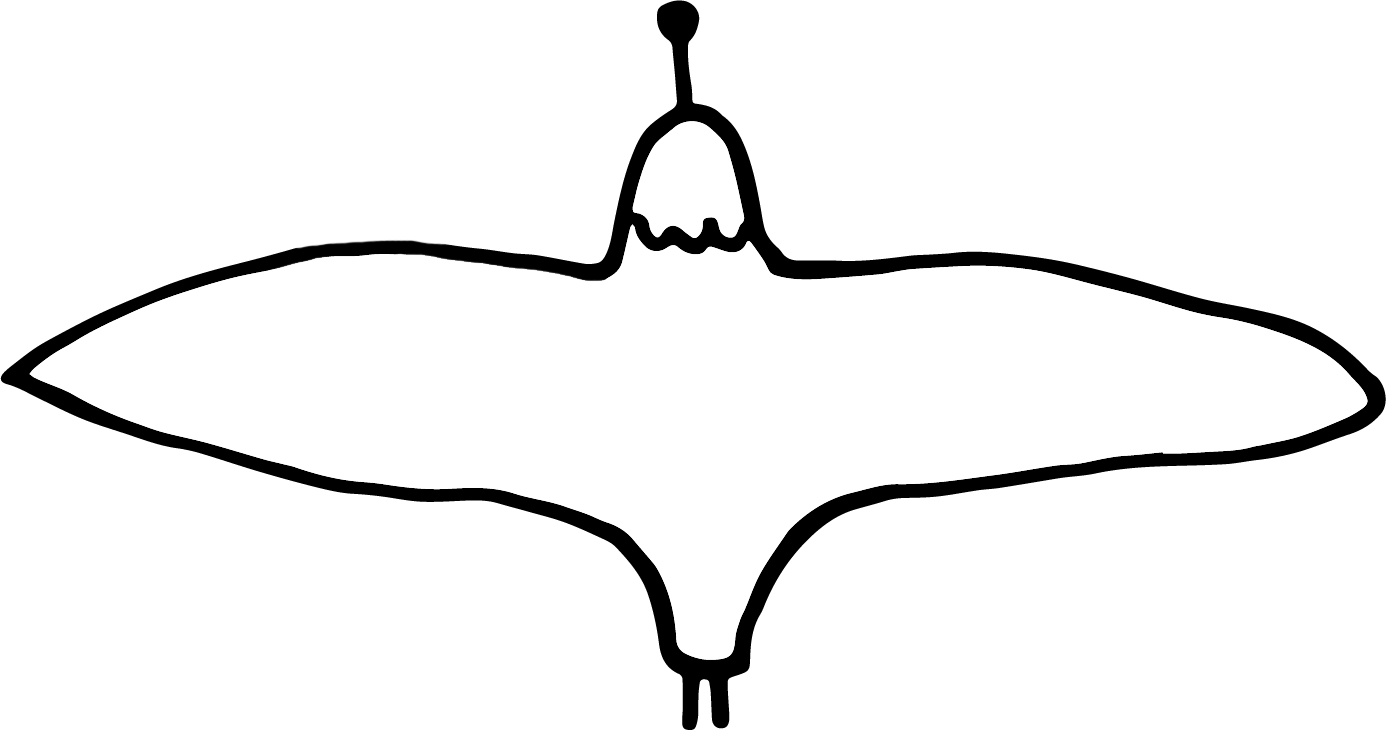
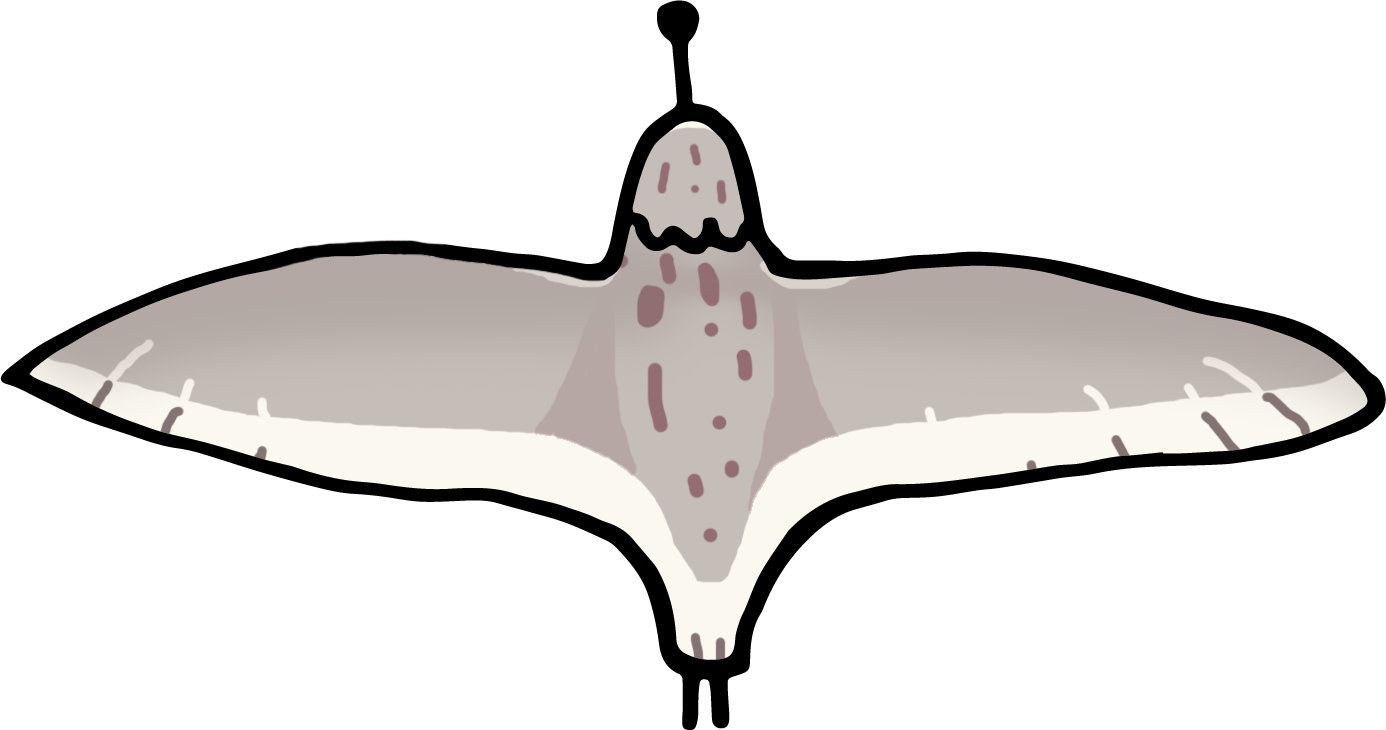
version 2.0

diff --git a/src/steps/ScrollForDisdinctionTimeline.jsx b/src/steps/ScrollForDisdinctionTimeline.jsx
@@ -1,0 +1,133 @@
+import { useEffect, useRef, useState } from "react";
+import scrollama from "scrollama";
+import "../styles/distinction.css";
+
+import DistinctionBirds from "../sections/distinction/DistinctionBirds";
+
+import { distinctionTimeline as timelineData }  from "../utils/distinction/distinctionTimeline";
+
+
+
+export default function ScrollForDisdinctionTimeline() {
+
+    const scrollerRef = useRef(null);
+    const sectionRef = useRef(null);
+
+    const [activeStep, setActiveStep] = useState(0);
+    const [isVisible, setIsVisible] = useState(false);
+
+    // 使用 Intersection Observer 检测 section 是否在视口中
+    useEffect(() => {
+        const observer = new IntersectionObserver(
+            ([entry]) => {
+                setIsVisible(entry.isIntersecting);
+            },
+            { threshold: 0.1 } // 当 10% 可见时触发
+        );
+
+        if (sectionRef.current) {
+            observer.observe(sectionRef.current);
+        }
+
+        return () => {
+            if (sectionRef.current) {
+                observer.unobserve(sectionRef.current);
+            }
+        };
+    }, []);
+
+
+    useEffect(() => {
+
+        if (timelineData.length === 0) return;
+        console.log(timelineData.length);
+
+        scrollerRef.current = scrollama();
+
+        scrollerRef.current
+            .setup({
+                step: ".distinction-trigger-step",
+                offset: 0.1,
+                debug: false
+            })
+
+            .onStepEnter(({ index, direction }) => {
+
+                if (direction === "down") {
+                    setActiveStep(index);
+                }
+
+            })
+
+            .onStepExit(({ index, direction }) => {
+
+                if (direction === "up") {
+                    setActiveStep(Math.max(index - 1, 0));
+                }
+
+            });
+
+
+        const handleResize = () => {
+            scrollerRef.current?.resize();
+        };
+
+        window.addEventListener(
+            "resize",
+            handleResize
+        );
+
+
+        return () => {
+
+            if (scrollerRef.current) {
+
+                scrollerRef.current.destroy();
+
+                scrollerRef.current = null;
+            }
+
+            window.removeEventListener(
+                "resize",
+                handleResize
+            );
+
+        };
+
+    }, [timelineData]);
+
+
+    return (
+        <section 
+            ref={sectionRef} 
+            className="distinction-timeline"
+        >
+
+            {timelineData.map((snapshot) => (
+
+                <div
+                    key={snapshot.year}
+                    className="distinction-snapshot"
+                >
+
+                    <div className="distinction-trigger-step" />
+
+                    <DistinctionBirds
+                        population={snapshot.population}
+                    />
+
+                </div>
+
+            ))}
+
+
+            {/* 只在 section 可见时显示 */}
+            {isVisible && (
+                <div className="distinction-time-marker">
+                    {timelineData[activeStep].year}
+                </div>
+            )}
+
+        </section>
+    );
+}

diff --git a/src/styles/distinction.css b/src/styles/distinction.css
@@ -1,0 +1,90 @@
+.distinction-time-marker {
+    position: fixed;
+    left: 50%;
+    top: 40%;
+    transform: translate(-50%, -50%);
+    z-index: 0;
+    pointer-events: none;
+    
+    font-size: 20vw; /* 或使用 clamp() 控制大小 */
+    font-weight: bold;
+    
+    /* 镂空效果 - 核心 */
+    color:rgb(169, 106, 24);
+    opacity: 0.1;
+
+    /* 平滑过渡 */
+    transition: all 0.5s cubic-bezier(0.4, 0, 0.2, 1);
+}
+
+.distinction-timeline {
+    position: relative;
+
+    width: 100%;
+
+    padding-bottom: 50vh;
+    margin-bottom: 30vh;
+}
+
+/* .distinction-timeline::before {
+    content: "";
+
+    position: absolute;
+    inset: 0;
+
+    pointer-events: none;
+
+    opacity: 0.12;
+
+    background-image:
+        url("/textures/paper-noise.png");
+} */
+
+.distinction-snapshot {
+    position: relative;
+
+    width: 100vw;
+    height: 150vh;
+
+    margin-bottom: -10vh;
+}
+
+
+.distinction-trigger-step {
+    width: 100%;
+    height: 20vh;
+    /* background: red; */
+
+    z-index: 9999;
+}
+
+
+.distinction-birds {
+    position: absolute;
+
+    inset: 0;
+
+    width: 100%;
+    height: 100%;
+
+    overflow: visible;
+
+    pointer-events: none;
+}
+
+
+.distinction-bird {
+    position: absolute;
+
+    width: 2vw;
+    height: auto;
+
+    transform:
+        translate(-50%, -50%)
+        scaleX(var(--bird-scale-x))
+        scale(var(--bird-size));
+
+    transform-origin: center;
+
+    pointer-events: none;
+}

diff --git a/src/sections/distinction/DistinctionBird.jsx b/src/sections/distinction/DistinctionBird.jsx
@@ -1,0 +1,50 @@
+import { useRef } from "react";
+
+// import silhouette1 from "../../assets/img/silhouette-1.png";
+// import silhouette2 from "../../assets/img/silhouette-2.png";
+// import silhouette3 from "../../assets/img/silhouette-3.png";
+
+// const birdImages = [
+//     silhouette1,
+//     silhouette2,
+//     silhouette3,
+// ];
+
+import birdFlying1 from "../../assets/img/bird-flying-1.png";
+import birdFlying2 from "../../assets/img/bird-flying-2.png";
+import birdFlying3 from "../../assets/img/bird-flying-3.png";
+
+const birdImages = [
+        birdFlying1,
+        birdFlying2,
+        birdFlying3,
+    ];
+
+export default function DistinctionBird({ bird }) {
+
+    const birdImageRef = useRef(
+        birdImages[
+            Math.floor(Math.random() * birdImages.length)
+        ]
+    );
+
+    return (
+        <img
+            className="distinction-bird"
+            src={birdImageRef.current}
+            style={{
+                left: `${bird.x}%`,
+                top: `${bird.y}%`,
+
+                zIndex:
+                    Math.round(bird.depth * 100),
+
+                "--bird-scale-x":
+                    bird.mirrored ? -1 : 1,
+
+                "--bird-size":
+                    bird.size,
+            }}
+        />
+    );
+}

diff --git a/src/sections/distinction/DistinctionBirds.jsx b/src/sections/distinction/DistinctionBirds.jsx
@@ -1,0 +1,47 @@
+// import DistinctionBird from "./DistinctionBird";
+// import { createBirdData } from "../../utils/distinction/distinctionBirdData";
+
+// export default function DistinctionBirds({ population }) {
+//     if (population == null) return null;
+
+//     const birds = createBirdData(population);
+
+//     return (
+//         <div className="distinction-birds">
+//             {birds.map(bird => (
+//                 <DistinctionBird
+//                     key={bird.index}
+//                     bird={bird}
+//                 />
+//             ))}
+//         </div>
+//     );
+// }
+
+
+import { useMemo } from "react";
+
+import DistinctionBird from "./DistinctionBird";
+import { createBirdData } from "../../utils/distinction/distinctionBirdData";
+
+export default function DistinctionBirds({ population }) {
+
+    const birds = useMemo(() => {
+
+        if (population == null) return [];
+
+        return createBirdData(population);
+
+    }, [population]);
+
+    return (
+        <div className="distinction-birds">
+            {birds.map(bird => (
+                <DistinctionBird
+                    key={bird.index}
+                    bird={bird}
+                />
+            ))}
+        </div>
+    );
+}

diff --git a/src/utils/distinction/distinctionTimeline.js b/src/utils/distinction/distinctionTimeline.js
@@ -1,0 +1,21 @@
+export const distinctionTimeline = [
+    { year: 2026, population: getPopulation(2026) },
+    { year: 2036, population: getPopulation(2036) },
+    { year: 2046, population: getPopulation(2046) },
+    { year: 2056, population: getPopulation(2056) },
+    { year: 2065, population: getPopulation(2065) },
+];
+
+function getPopulation(year) {
+    const initialPopulation = 320;
+    const annualDeclineRate = 0.05;
+    const initialYear = 2026;
+
+    return Math.round(
+        initialPopulation *
+        Math.pow(
+            1 - annualDeclineRate,
+            year - initialYear
+        )
+    );
+}

diff --git a/src/App.jsx b/src/App.jsx
@@ -3,6 +3,7 @@ import './styles/App.css'
 import ScrollForIntro from './steps/ScrollForIntro';
 import ScrollForPopulation from './steps/ScrollForPopulation';
 import ScrollForRinging from './steps/ScrollForRinging';
+import ScrollForDisdinctionTimeline from './steps/ScrollForDisdinctionTimeline';
 import ScrollForMigration from './steps/ScrollForMigration';
 
 function App() {
@@ -17,6 +18,7 @@ function App() {
       <ScrollForRinging
         language={language}
       />
+      <ScrollForDisdinctionTimeline/>
       <ScrollForMigration />
     </>
   );

diff --git a/src/utils/distinction/distinctionBirdData.js b/src/utils/distinction/distinctionBirdData.js
@@ -1,0 +1,29 @@
+export function createBirdData(count = 50) {
+
+    return Array.from({ length: count }, (_, index) => {
+
+        const depth = Math.random();
+
+        return {
+            index,
+
+            // position
+            x: 5 + Math.random() * 90,
+            y: 5 + Math.random() * 90,
+
+            mirrored:
+                Math.random() < 0.5,
+
+            // depth
+            depth,
+
+            // visual properties
+            size:
+                0.5 + depth * 1.2,
+
+        };
+
+    });
+
+}
+

diff --git a/src/styles/ringing.css b/src/styles/ringing.css
@@ -19,7 +19,6 @@
 
     overflow: hidden;
 
-    background: rgb(57, 118, 240);
 }
 
 .sticky-birds {
